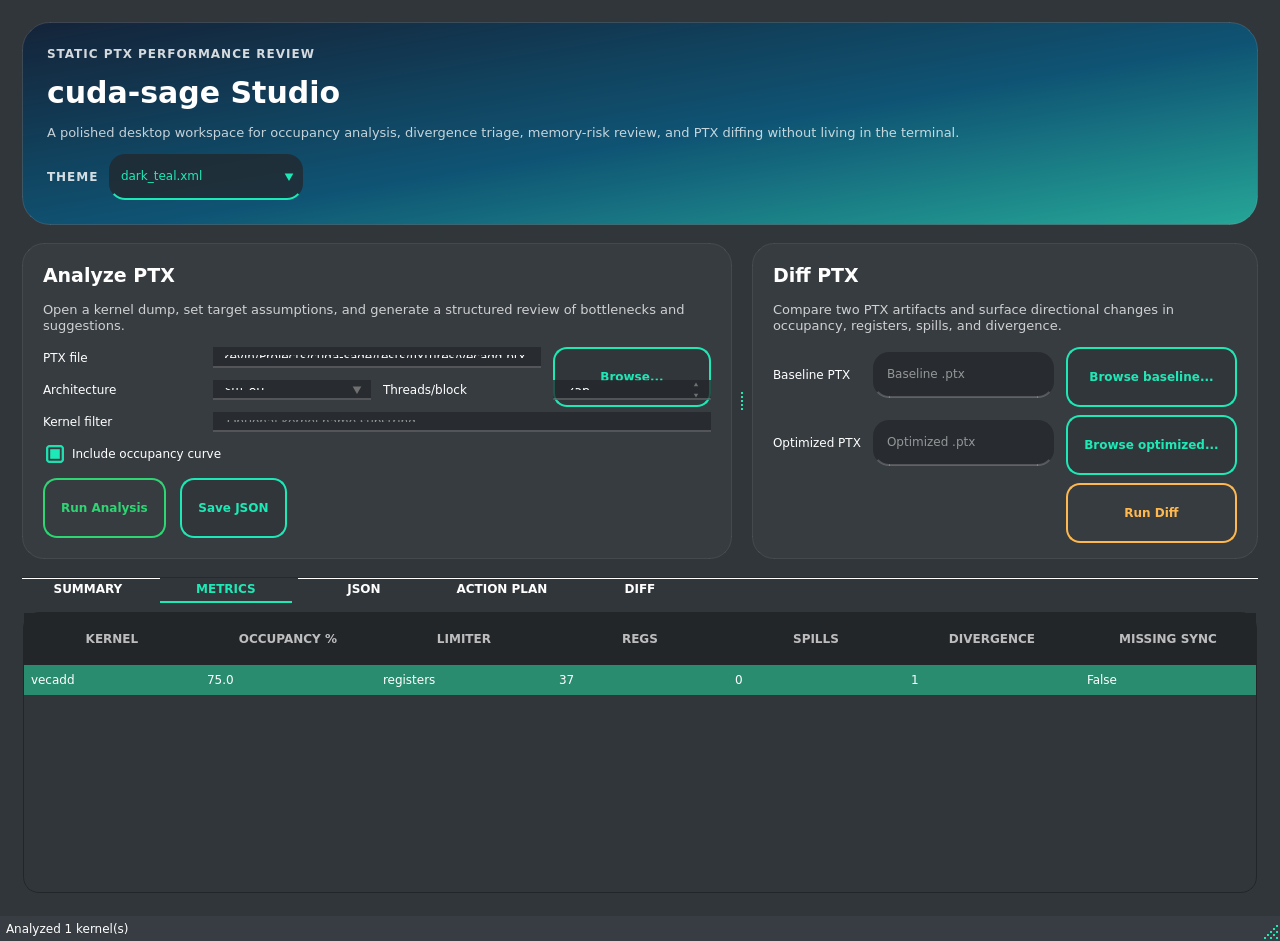
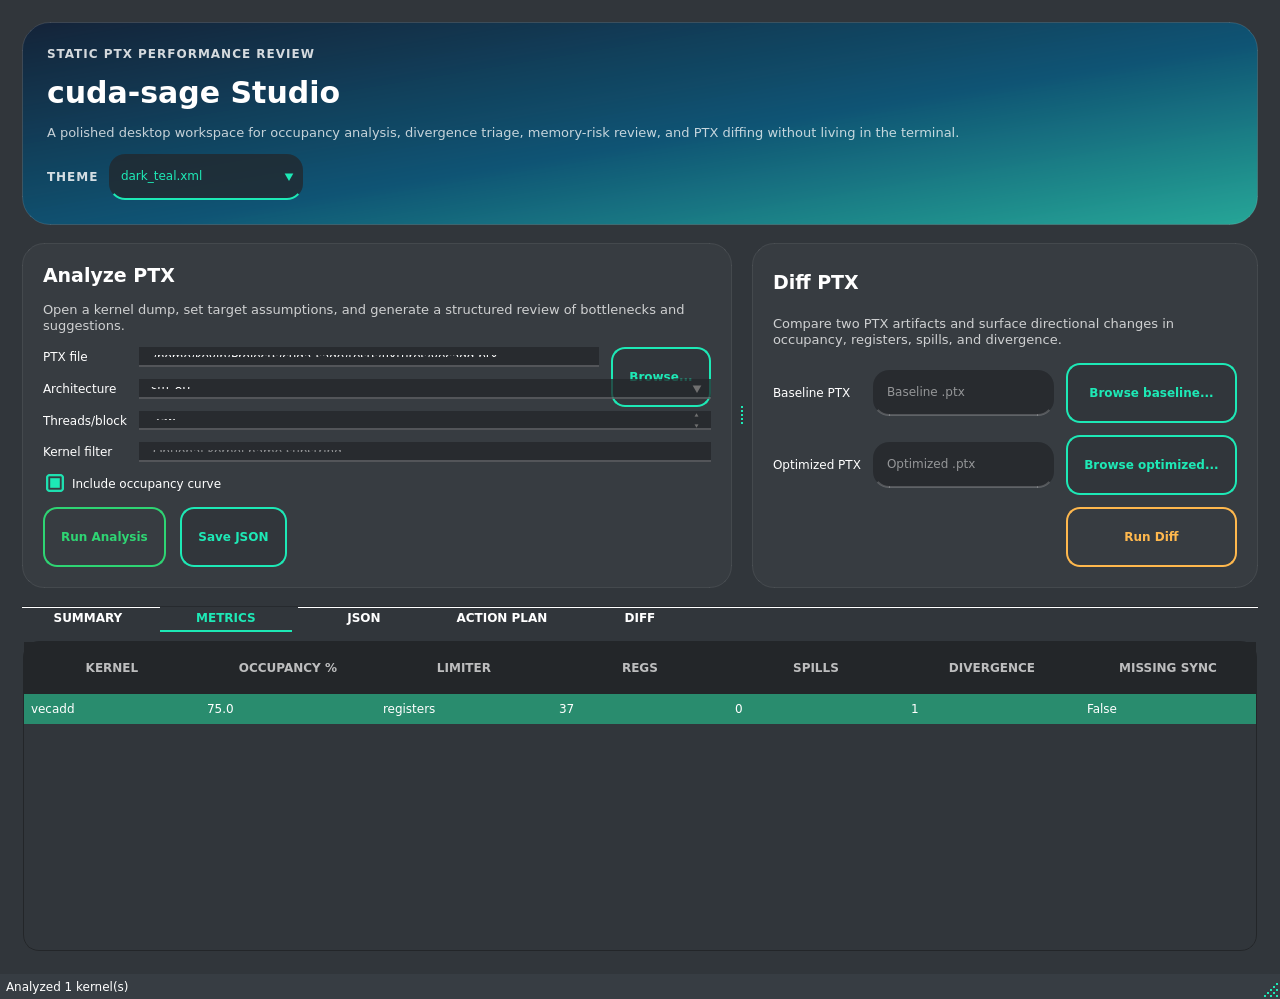
feat: enhance GUI layout for improved usability and organization

diff --git a/src/cudasage/gui.py b/src/cudasage/gui.py
@@ -715,16 +715,25 @@ def main() -> None:
             save_json_btn = QPushButton("Save JSON")
             save_json_btn.clicked.connect(self._save_json)
 
+            # 3-column grid: col 0 = fixed label, col 1 = stretching input, col 2 = fixed button
+            analyze_form.setColumnStretch(0, 0)
+            analyze_form.setColumnStretch(1, 1)
+            analyze_form.setColumnStretch(2, 0)
+            # Row 0: PTX file path + browse button
             analyze_form.addWidget(QLabel("PTX file"), 0, 0)
-            analyze_form.addWidget(self.ptx_path, 0, 1, 1, 2)
-            analyze_form.addWidget(pick_ptx_btn, 0, 3)
+            analyze_form.addWidget(self.ptx_path, 0, 1)
+            analyze_form.addWidget(pick_ptx_btn, 0, 2)
+            # Row 1: Architecture (full input width)
             analyze_form.addWidget(QLabel("Architecture"), 1, 0)
-            analyze_form.addWidget(self.arch_combo, 1, 1)
-            analyze_form.addWidget(QLabel("Threads/block"), 1, 2)
-            analyze_form.addWidget(self.threads_spin, 1, 3)
-            analyze_form.addWidget(QLabel("Kernel filter"), 2, 0)
-            analyze_form.addWidget(self.kernel_filter, 2, 1, 1, 3)
-            analyze_form.addWidget(self.curve_box, 3, 0, 1, 2)
+            analyze_form.addWidget(self.arch_combo, 1, 1, 1, 2)
+            # Row 2: Threads/block (full input width)
+            analyze_form.addWidget(QLabel("Threads/block"), 2, 0)
+            analyze_form.addWidget(self.threads_spin, 2, 1, 1, 2)
+            # Row 3: Kernel filter (full input width)
+            analyze_form.addWidget(QLabel("Kernel filter"), 3, 0)
+            analyze_form.addWidget(self.kernel_filter, 3, 1, 1, 2)
+            # Row 4: occupancy curve checkbox spanning all columns
+            analyze_form.addWidget(self.curve_box, 4, 0, 1, 3)
 
             action_row = QHBoxLayout()
             action_row.addWidget(run_btn)
@@ -756,6 +765,10 @@ def main() -> None:
             run_diff_btn.setProperty("class", "warning")
             run_diff_btn.clicked.connect(self._run_diff)
 
+            # 3-column grid: col 0 = fixed label, col 1 = stretching path input, col 2 = fixed button
+            diff_layout.setColumnStretch(0, 0)
+            diff_layout.setColumnStretch(1, 1)
+            diff_layout.setColumnStretch(2, 0)
             diff_layout.addWidget(QLabel("Baseline PTX"), 0, 0)
             diff_layout.addWidget(self.base_path, 0, 1)
             diff_layout.addWidget(base_btn, 0, 2)
